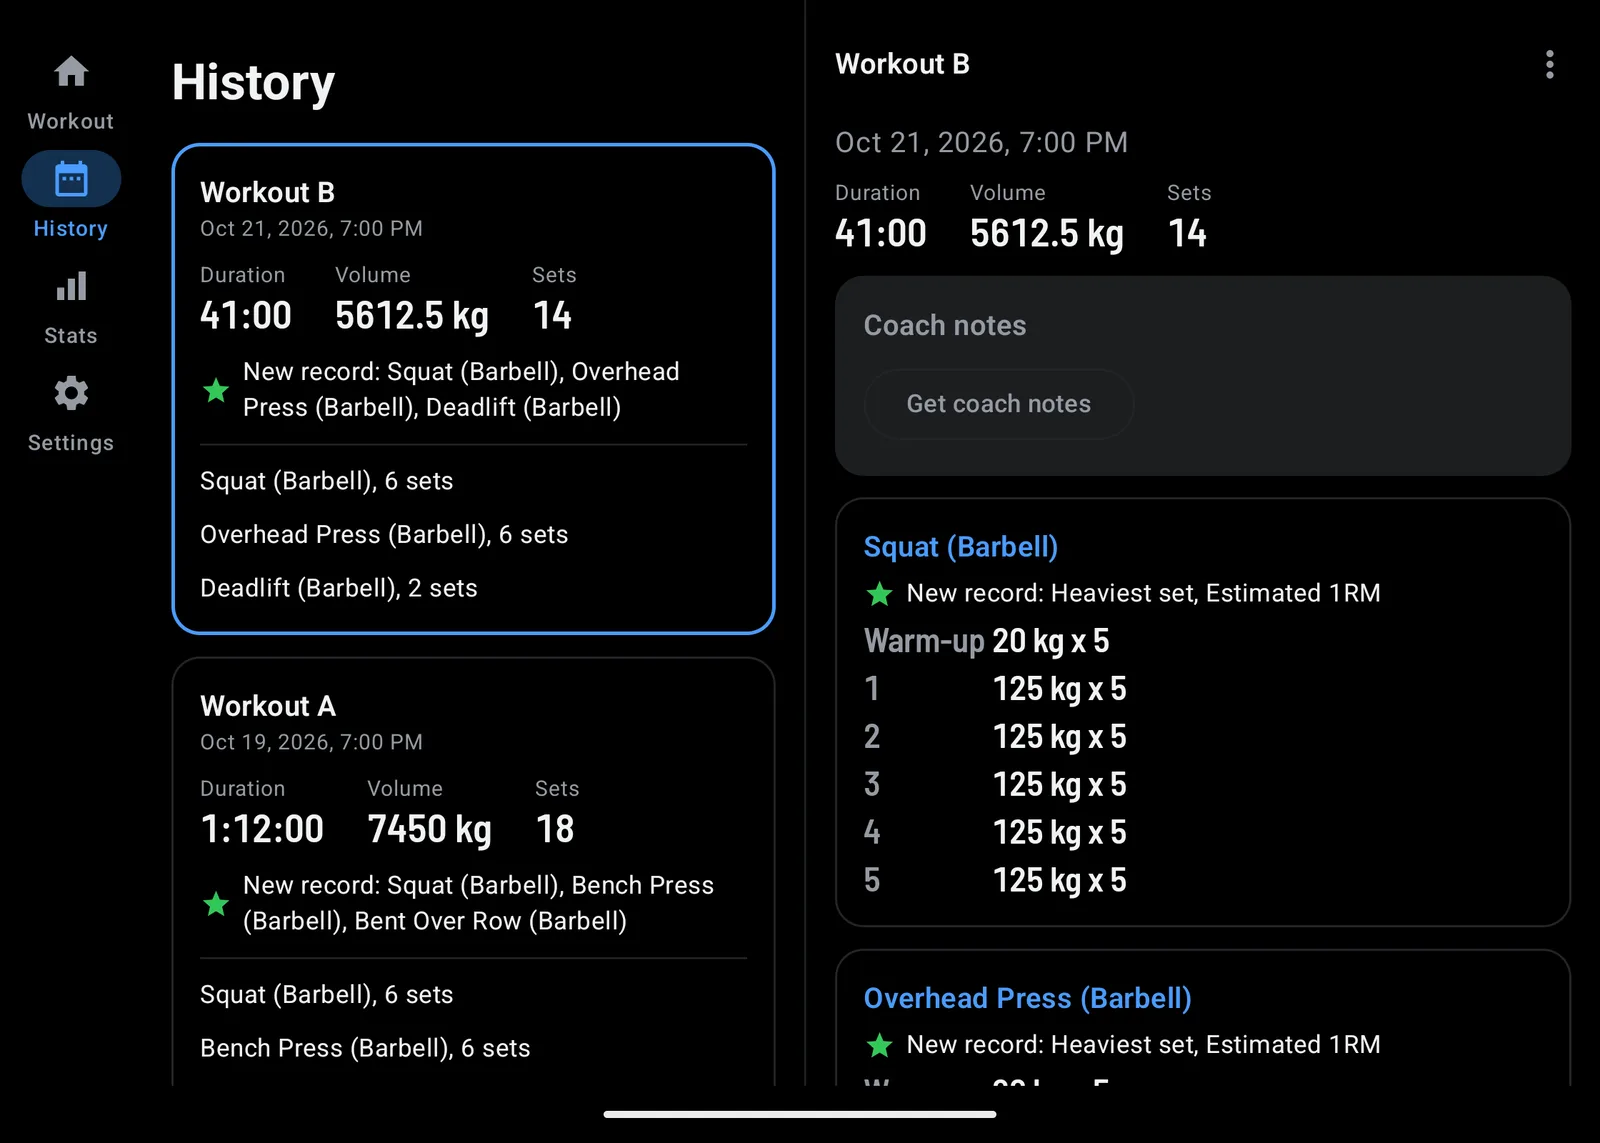
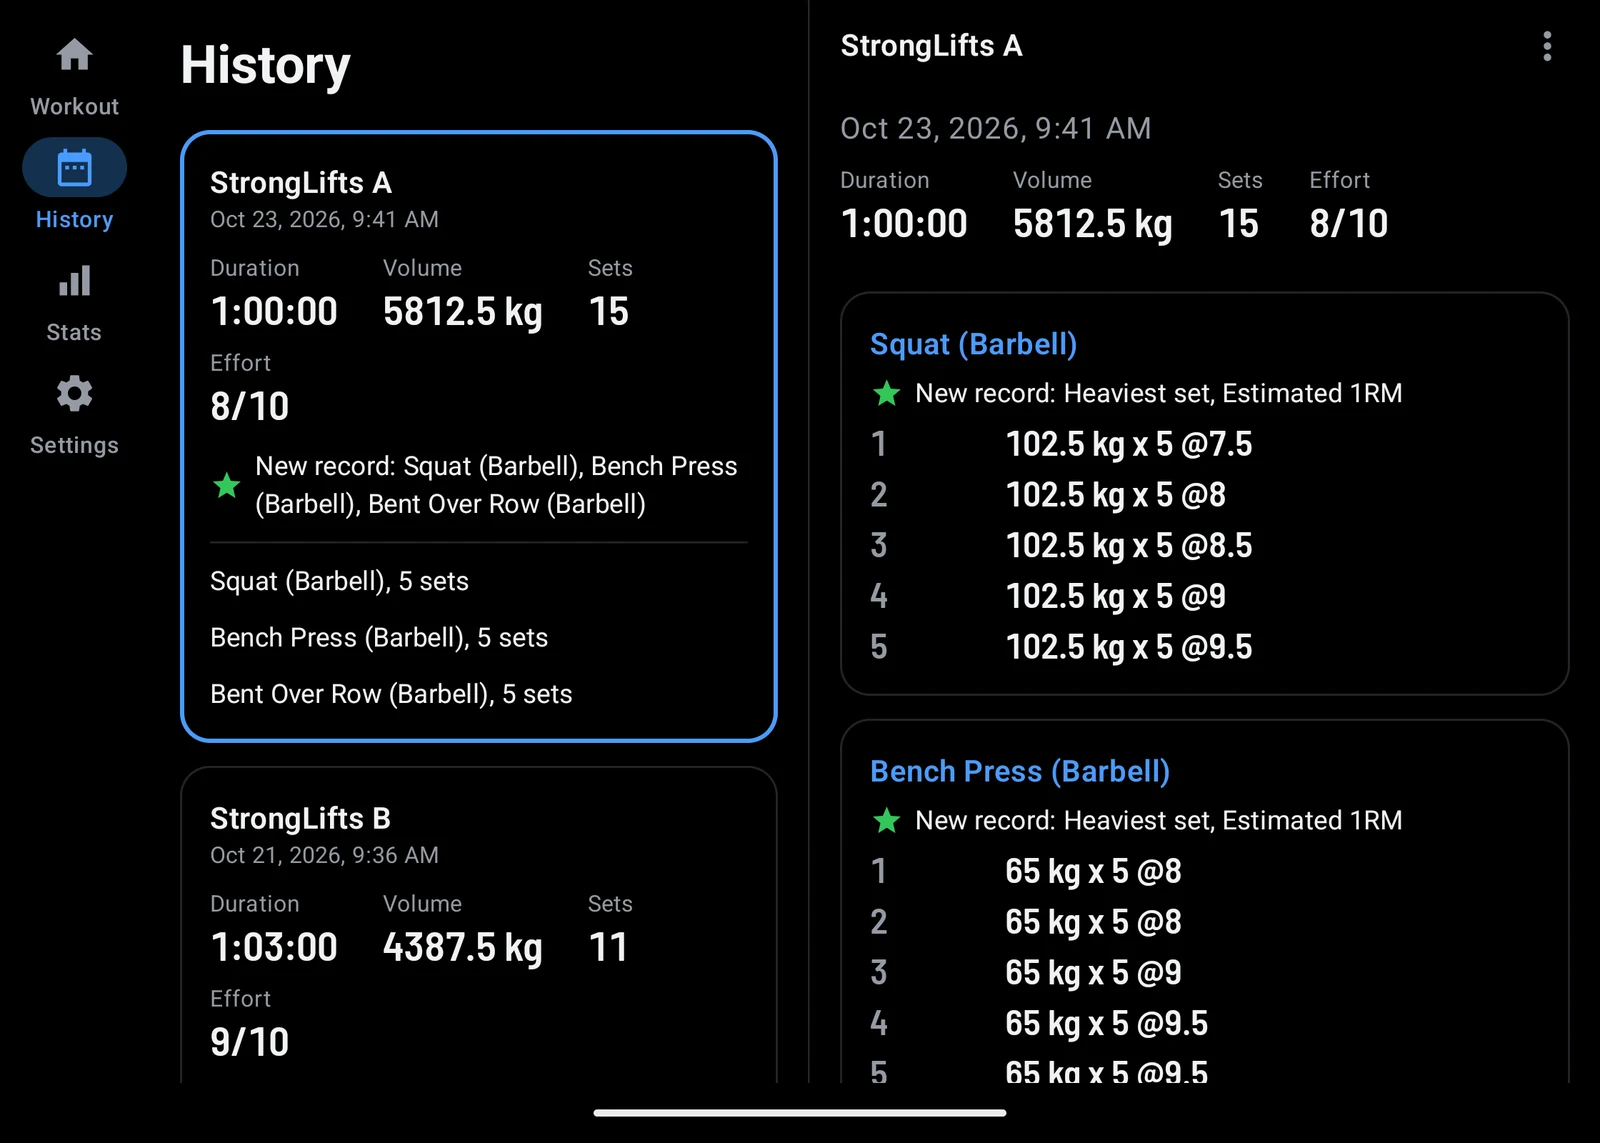
Show effort and RPE on the Fold too: the workout's RPE column, History's effort and per-set RPE, Stats' training load and weekly load

Changed region(s): [[0.0, 0.0306, 1.0, 0.9799], [0.5, 0.0306, 0.6562, 0.0612]]

diff --git a/ko/index.html b/ko/index.html
@@ -213,14 +213,14 @@
         <div class="fold-carousel" role="region" aria-roledescription="carousel" aria-label="펼친 폴드 화면">
           <ul class="fold-track" tabindex="0">
             <li class="fold-slide" aria-roledescription="slide" aria-label="1 / 3: 운동">
-              <figure><img src="../images/fold-ko.webp" width="1600" height="1142" alt="펼친 폴드의 운동 화면: 왼쪽에 스쿼트 자세 영상, 오른쪽에 세트 목록" loading="lazy">
-                <figcaption>운동: 왼쪽에 지금 세트와 자세 가이드, 오른쪽에 세트 목록</figcaption></figure></li>
+              <figure><img src="../images/fold-ko.webp" width="1600" height="1143" alt="펼친 폴드의 운동 화면: 왼쪽에 다음 스쿼트 세트와 자세 영상, 오른쪽에 끝낸 두 세트의 RPE 7.5와 8.5가 적힌 세트 목록" loading="lazy">
+                <figcaption>운동: 왼쪽에 지금 세트와 자세 가이드, 오른쪽에 세트 목록과 RPE</figcaption></figure></li>
             <li class="fold-slide" aria-roledescription="slide" aria-label="2 / 3: 기록">
-              <figure><img src="../images/fold-history-ko.webp" width="1600" height="1143" alt="펼친 폴드의 기록 화면: 왼쪽에 새 기록이 표시된 운동 목록, 오른쪽에 고른 운동의 세트와 새 기록: 최고 무게, 예상 1RM" loading="lazy">
-                <figcaption>기록: 목록 옆에 운동 내용이 열리고, 새 기록도 함께 보여요</figcaption></figure></li>
+              <figure><img src="../images/fold-history-ko.webp" width="1600" height="1143" alt="펼친 폴드의 기록 화면: 왼쪽에 강도 8/10, 9/10이 적힌 운동 목록, 오른쪽에 고른 운동의 세트별 RPE와 새 기록: 최고 무게, 예상 1RM" loading="lazy">
+                <figcaption>기록: 목록 옆에 운동 내용이 열리고, 강도와 세트별 RPE, 새 기록도 함께 보여요</figcaption></figure></li>
             <li class="fold-slide" aria-roledescription="slide" aria-label="3 / 3: 통계">
-              <figure><img src="../images/fold-stats-ko.webp" width="1600" height="1143" alt="펼친 폴드의 통계 화면: 왼쪽에 주별 운동 그래프와 운동 목록, 오른쪽에 체중 추세 그래프" loading="lazy">
-                <figcaption>통계: 왼쪽에 주별 운동과 운동 목록, 오른쪽에 체중 추세</figcaption></figure></li>
+              <figure><img src="../images/fold-stats-ko.webp" width="1600" height="1143" alt="펼친 폴드의 통계 화면: 왼쪽에 평소 한 주보다 37% 높은 훈련 부하와 주별 부하 그래프, 오른쪽에 체중 추세 그래프" loading="lazy">
+                <figcaption>통계: 왼쪽에 훈련 부하와 주별 운동, 오른쪽에 체중 추세</figcaption></figure></li>
           </ul>
           <div class="fold-controls" hidden>
             <button type="button" class="nav-btn" data-step="-1" aria-label="이전 화면"><svg viewBox="0 0 24 24" aria-hidden="true"><path d="M15 5l-7 7 7 7"/></svg></button>

diff --git a/index.html b/index.html
@@ -216,14 +216,14 @@
         <div class="fold-carousel" role="region" aria-roledescription="carousel" aria-label="Screens on an unfolded Fold">
           <ul class="fold-track" tabindex="0">
             <li class="fold-slide" aria-roledescription="slide" aria-label="1 / 3: Workout">
-              <figure><img src="images/fold-en.webp" width="1600" height="1142" alt="Workout on an unfolded Fold: the squat form video on the left, the sets on the right" loading="lazy">
-                <figcaption>Workout: the current set and form guide on the left, the sets on the right</figcaption></figure></li>
+              <figure><img src="images/fold-en.webp" width="1600" height="1143" alt="Workout on an unfolded Fold: the next squat set and its form video on the left, the sets on the right with RPE 7.5 and 8.5 on the two done" loading="lazy">
+                <figcaption>Workout: the current set and form guide on the left, the sets and their RPE on the right</figcaption></figure></li>
             <li class="fold-slide" aria-roledescription="slide" aria-label="2 / 3: History">
-              <figure><img src="images/fold-history-en.webp" width="1600" height="1143" alt="History on an unfolded Fold: workouts with their new records on the left, the chosen workout's sets on the right, marked New record: Heaviest set, Estimated 1RM" loading="lazy">
-                <figcaption>History: the workout opens next to the list, new records marked</figcaption></figure></li>
+              <figure><img src="images/fold-history-en.webp" width="1600" height="1143" alt="History on an unfolded Fold: workouts with their effort, 8 out of 10 and 9 out of 10, on the left, the chosen workout's sets with their RPE on the right, marked New record: Heaviest set, Estimated 1RM" loading="lazy">
+                <figcaption>History: the workout opens next to the list, with its effort, each set's RPE and new records</figcaption></figure></li>
             <li class="fold-slide" aria-roledescription="slide" aria-label="3 / 3: Stats">
-              <figure><img src="images/fold-stats-en.webp" width="1600" height="1143" alt="Stats on an unfolded Fold: the weekly chart and exercises on the left, the weight trend on the right" loading="lazy">
-                <figcaption>Stats: weeks and exercises on the left, your weight trend on the right</figcaption></figure></li>
+              <figure><img src="images/fold-stats-en.webp" width="1600" height="1143" alt="Stats on an unfolded Fold: training load 37% above the usual week and the weekly load chart on the left, the weight trend on the right" loading="lazy">
+                <figcaption>Stats: training load and your weeks on the left, your weight trend on the right</figcaption></figure></li>
           </ul>
           <div class="fold-controls" hidden>
             <button type="button" class="nav-btn" data-step="-1" aria-label="Previous screen"><svg viewBox="0 0 24 24" aria-hidden="true"><path d="M15 5l-7 7 7 7"/></svg></button>
